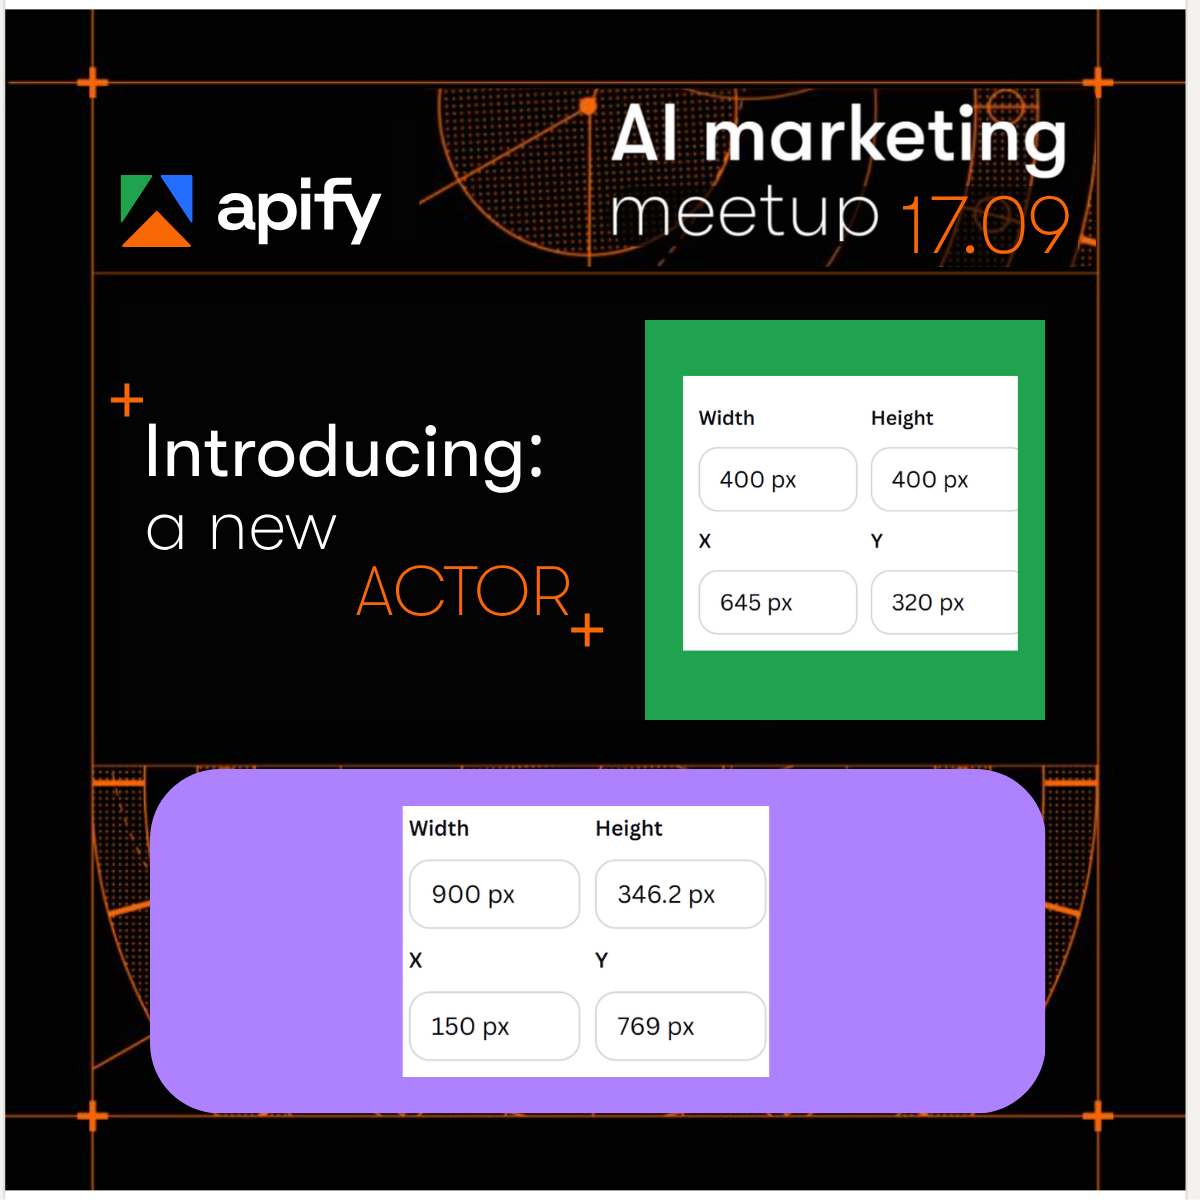
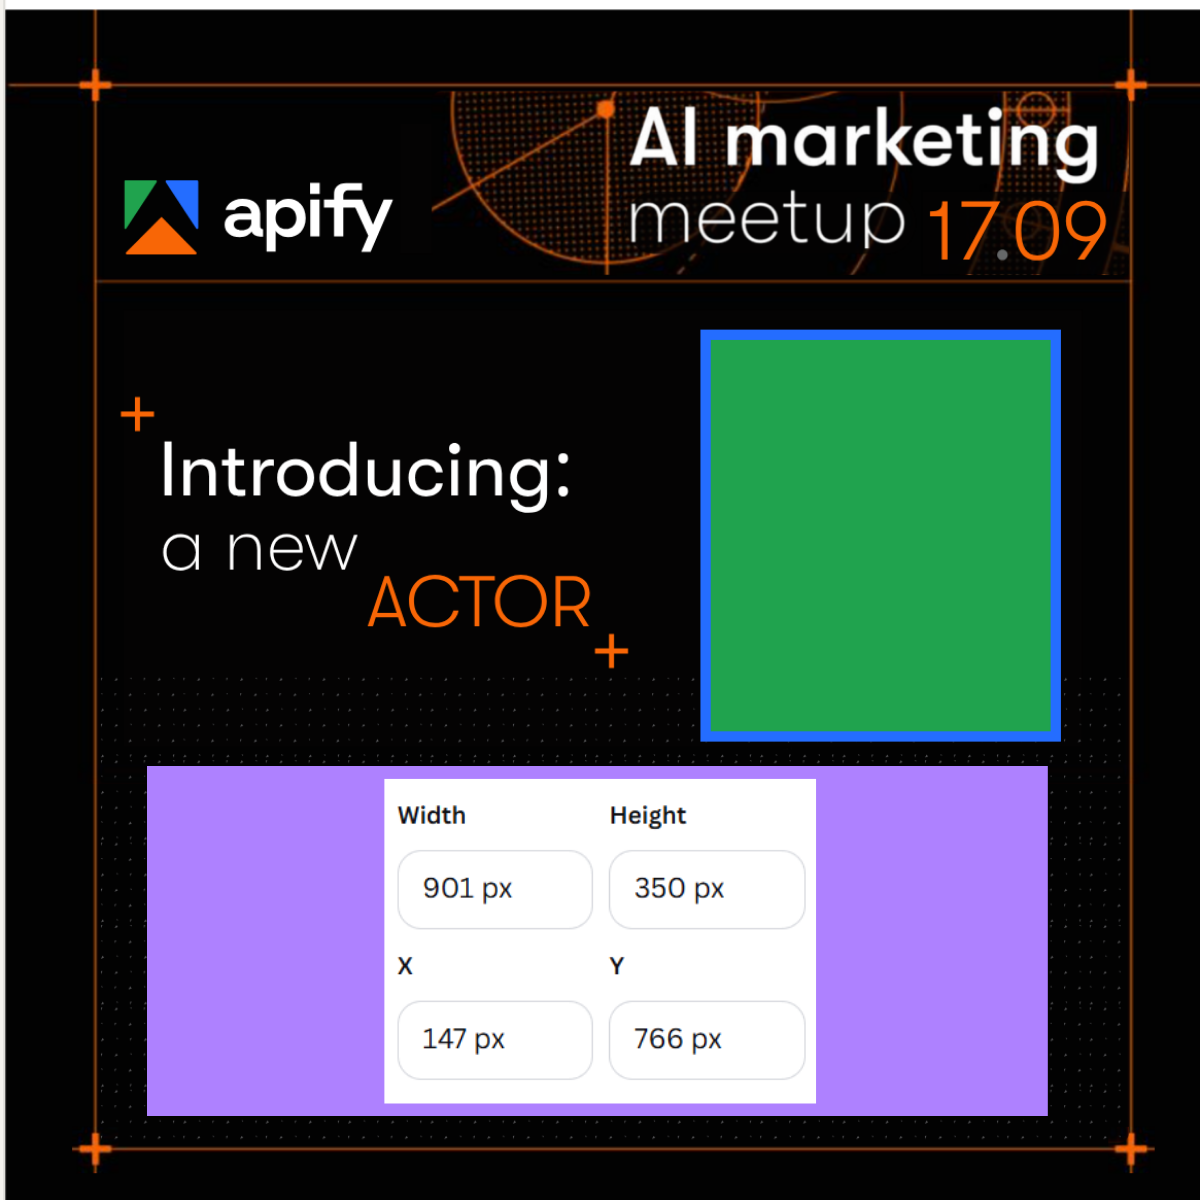
Preflight for the new canon template; hover ring on the card's outside
- Hover fix: the permanent :hover ring was painted around the inner body,
  overpainting the #1d1d1d shell; it now sits box-shadow outside the card
  like the live site, so the edge reads ring/shell/body (verified by pixel)
- New #020202 plate behind the card covers the whole purple block - its
  square corners no longer peek past the card's rounded corners
- Canon template: stale speaker readout panel removed (values predated the
  operator's rescale; green area is flat again, mask-only geometry);
  purple panel verified exact (901x350@147,766, ratio passes at 1.7px)
- Skill learns the blue-bordered speaker block: photo fills the green area
  only, a panel on a ringed block states the border-inclusive footprint
- All 400x400 image guidance updated to the template's photo-area size
  (339x391 currently); placement records refreshed; budgets PNG re-rendered

Claude-Session: https://claude.ai/code/session_01MRv3MoDQ3dsJRT2KJLrnef

Changed region(s): [[0.0, 0.0, 1.0, 1.0]]

diff --git a/internal/render/shell.html b/internal/render/shell.html
@@ -66,14 +66,14 @@ body{ width:{{PAGE_W}}px; height:{{PAGE_H}}px; overflow:hidden;
   font-family:Inter,sans-serif;
   text-decoration:none;
   font-size:18px; line-height:28px;   /* -> 47.667px header row, see top note */
+  /* hover state rendered permanently on (operator direction): the live
+     card's :hover ring — box-shadow 0 0 0 2px #2a2a2a OUTSIDE the card,
+     so the edge reads ring / #1d1d1d shell / body, like a hovered card. */
+  box-shadow:0 0 0 2px var(--border);
 }
 .ActorCard *{ box-sizing:border-box; }
 .ActorCard-body{
   padding:16px; border-radius:6px; background-color:var(--bg); flex-grow:1;
-  /* hover state rendered permanently on (operator direction): the live
-     card's :hover ring — box-shadow 0 0 0 2px #2a2a2a around the body,
-     which reads as the lightened top/side border in the screenshot. */
-  box-shadow:0 0 0 2px var(--border);
 }
 .ActorCard-header{ display:flex; align-items:center; gap:12px; }
 .ActorCard-iconWrap{ position:relative; display:inline-block; flex-shrink:0; }
@@ -136,6 +136,12 @@ body{ width:{{PAGE_W}}px; height:{{PAGE_H}}px; overflow:hidden;
 <img id="base" src="{{BASE_IMAGE_URI}}" alt="">
 <img id="speaker" src="{{SPEAKER_IMAGE_URI}}" alt="">
 
+<!-- plate under the card: covers the whole purple block (its square
+     corners would otherwise peek past the card's rounded corners) -->
+<div id="cardplate" style="position:absolute;
+     left:calc({{CARD_X}}px - 1px); top:calc({{CARD_Y}}px - 1px);
+     width:calc({{CARD_W}}px + 2px); height:calc({{CARD_H}}px + 2px);
+     background:#020202"></div>
 <div id="cardmount">
 <a class="ActorCard">
   <div class="ActorCard-body">

diff --git a/docs/text-budgets.html b/docs/text-budgets.html
@@ -30,7 +30,7 @@
 <body>
 
 <h1>Speaker card — text budgets</h1>
-<p class="sub">Measured on the rendered card at its 400 px CSS render width (not the 400×400 speaker image) · companion to “Actor card field mapping”</p>
+<p class="sub">Measured on the rendered card at its 400 px CSS render width · companion to “Actor card field mapping”</p>
 
 <table>
   <caption>Text budgets — measured on the rendered card at 400&nbsp;px width, minus an 8% safety buffer</caption>

diff --git a/intake-template (completed example).md b/intake-template (completed example).md
@@ -47,16 +47,16 @@ duration_minutes:   "10"            # number only — the card renders 10 (mins)
 # Values below are from the last run, not a specification.
 
 # actor card block — purple placeholder
-card_x:             150
-card_y:             769
-card_w:             900
-card_h:             346.2
+card_x:             147
+card_y:             766
+card_w:             901
+card_h:             350
 
-# speaker photo block — green placeholder
-speaker_x:          650
-speaker_y:          318
-speaker_w:          400
-speaker_h:          400
+# speaker photo block — green placeholder (photo area inside the blue ring)
+speaker_x:          711
+speaker_y:          340
+speaker_w:          339
+speaker_h:          391
 
 # --- 7. render options -------------------------------------------------------
 # output is optional. Default: processed/<this-file's-name>.png
@@ -141,8 +141,7 @@ Talk length in minutes — the number only, no unit; the card renders it as
 The short blurb under the speaker's name on the card. The number in the
 fence label is the enforced character budget: the measured two-line capacity
 of the **actor card's description text slot** with the card at its native
-CSS render width (`card_width: 400`) minus an 8% buffer — nothing to do with
-the 400×400 speaker image; the matching number is coincidence. Exceeding the
+CSS render width (`card_width: 400`) minus an 8% buffer. Exceeding the
 budget rejects the form; the card is never silently truncated.
 
 ```presentation-description-82-char-max
@@ -153,8 +152,8 @@ How we cut lead research from six hours a week to twenty minutes.
 
 That's everything to type. Two things remain to **drop into this folder as
 files** (see the folder's README): the company logo (`company-logo.png`) and
-the speaker photo (`speaker.png`) — each either exactly 400×400, or any size
-with a visible mark drawn at the intended centre of the shot. Everything
+the speaker photo (`speaker.png`) — any size with a visible mark drawn at
+the intended centre of the shot (or exactly the template's photo-area size). Everything
 below this line is for the agents.
 
 ---
@@ -282,6 +281,12 @@ template missing either one is rejected before any rendering starts.
 |---|---|---|---|
 | **actor card** | purple `#AE81FF` | measured per run | the rendered card |
 | **speaker photo** | green `#20A34E` | measured per run | `speaker_image` |
+
+The speaker block wears a **10px Apify-blue border** (≈ rgb(36,109,255)),
+drawn in the template and **inclusive in the block's stated dimensions**:
+a printed panel on a bordered block gives the border-inclusive footprint,
+and the photo fills only the green area inside the ring. The ring stays
+visible around the finished portrait; nothing about it is an input.
 
 ### The template image is canon
 
@@ -469,9 +474,9 @@ The first fenced block after the frontmatter whose info string starts with
 
 - Inter 12px / 400 / `#a3a3a3`, clamped to `desc_lines` (2 lines).
 - **Budget: 82 characters** — the card's description text slot measured
-  with the card at its native CSS render width (`card_width: 400` — not the
-  400×400 speaker image): two-line capacity ~90 chars across mixed
-  real-text samples, worst sample 87, minus an 8% buffer. The budget is parsed from the fence label itself,
+  with the card at its native CSS render width (`card_width: 400`):
+  two-line capacity ~90 chars across mixed real-text samples, worst
+  sample 87, minus an 8% buffer. The budget is parsed from the fence label itself,
   so retuning it for a different card width means renaming the fence.
 - Newlines inside the fence are collapsed to spaces; leading/trailing
   whitespace is trimmed. Write one plain paragraph — no markdown.
@@ -516,10 +521,12 @@ The portrait image filling the green block. Resolved against `assets_root`.
 
 - Drawn at `speaker_w × speaker_h`, `object-fit: cover` — centre-cropped, never
   squashed.
-- Supply at **720 × 960 or larger** (2× the block) so it stays crisp; the block
-  is 3:4, so anything near that ratio crops cleanly.
-- Unlike the two card images this one has no border and no radius applied. If
-  you want rounded corners on it, say so — it is not in the card's CSS.
+- Supply at roughly **2× the photo area or larger** (≥ 680×780 for the
+  current template) so it stays crisp; the area is close to 7:8 portrait,
+  so anything near that ratio crops cleanly.
+- The 10px Apify-blue border around the finished portrait comes from the
+  template (§1b) — the render itself adds no border and no radius; the
+  photo simply fills the green area inside the ring.
 
 **States:** valid path → drawn · empty or omitted → **rejected**; both blocks
 must be filled · missing file → hard fail · wrong aspect → centre-cropped, which
@@ -594,8 +601,10 @@ processed/<speaker-folder>/      the whole folder lands here on success,
 
 For `speaker.png` (and `company-logo.png` alike, PNG or JPG/JPEG):
 
-- **Exactly 400×400** → used as-is; a correctly sized image also fully covers
-  a placeholder outline, which sits inside those bounds; or
+- **Exactly the template's photo-area size** (the green area inside the
+  blue ring — 339×391 on the current template) → used as-is; a correctly
+  sized image also fully covers a placeholder outline, which sits inside
+  those bounds; or
 - **any size, with a visible mark at the intended centre** — an "x", a
   scribble, any clear annotation drawn on the image. The skill reads the
   mark's position, records it as `speaker_focus: [x, y]`, and the generator

diff --git a/intake-template.md b/intake-template.md
@@ -47,16 +47,16 @@ duration_minutes:   ""              # number only — the card renders 10 (mins)
 # Values below are from the last run, not a specification.
 
 # actor card block — purple placeholder
-card_x:             150
-card_y:             769
-card_w:             900
-card_h:             346.2
+card_x:             147
+card_y:             766
+card_w:             901
+card_h:             350
 
-# speaker photo block — green placeholder
-speaker_x:          650
-speaker_y:          318
-speaker_w:          400
-speaker_h:          400
+# speaker photo block — green placeholder (photo area inside the blue ring)
+speaker_x:          711
+speaker_y:          340
+speaker_w:          339
+speaker_h:          391
 
 # --- 7. render options -------------------------------------------------------
 # output is optional. Default: processed/<this-file's-name>.png
@@ -147,8 +147,7 @@ Talk length in minutes — the number only, no unit; the card renders it as
 The short blurb under the speaker's name on the card. The number in the
 fence label is the enforced character budget: the measured two-line capacity
 of the **actor card's description text slot** with the card at its native
-CSS render width (`card_width: 400`) minus an 8% buffer — nothing to do with
-the 400×400 speaker image; the matching number is coincidence. Exceeding the
+CSS render width (`card_width: 400`) minus an 8% buffer. Exceeding the
 budget rejects the form; the card is never silently truncated.
 
 ```presentation-description-82-char-max
@@ -175,8 +174,8 @@ budget rejects the form; the card is never silently truncated.
 
 That's everything to type. Two things remain to **drop into this folder as
 files** (see the folder's README): the company logo (`company-logo.png`) and
-the speaker photo (`speaker.png`) — each either exactly 400×400, or any size
-with a visible mark drawn at the intended centre of the shot. Everything
+the speaker photo (`speaker.png`) — any size with a visible mark drawn at
+the intended centre of the shot (or exactly the template's photo-area size). Everything
 below this line is for the agents.
 
 ---
@@ -304,6 +303,12 @@ template missing either one is rejected before any rendering starts.
 |---|---|---|---|
 | **actor card** | purple `#AE81FF` | measured per run | the rendered card |
 | **speaker photo** | green `#20A34E` | measured per run | `speaker_image` |
+
+The speaker block wears a **10px Apify-blue border** (≈ rgb(36,109,255)),
+drawn in the template and **inclusive in the block's stated dimensions**:
+a printed panel on a bordered block gives the border-inclusive footprint,
+and the photo fills only the green area inside the ring. The ring stays
+visible around the finished portrait; nothing about it is an input.
 
 ### The template image is canon
 
@@ -491,9 +496,9 @@ The first fenced block after the frontmatter whose info string starts with
 
 - Inter 12px / 400 / `#a3a3a3`, clamped to `desc_lines` (2 lines).
 - **Budget: 82 characters** — the card's description text slot measured
-  with the card at its native CSS render width (`card_width: 400` — not the
-  400×400 speaker image): two-line capacity ~90 chars across mixed
-  real-text samples, worst sample 87, minus an 8% buffer. The budget is parsed from the fence label itself,
+  with the card at its native CSS render width (`card_width: 400`):
+  two-line capacity ~90 chars across mixed real-text samples, worst
+  sample 87, minus an 8% buffer. The budget is parsed from the fence label itself,
   so retuning it for a different card width means renaming the fence.
 - Newlines inside the fence are collapsed to spaces; leading/trailing
   whitespace is trimmed. Write one plain paragraph — no markdown.
@@ -538,10 +543,12 @@ The portrait image filling the green block. Resolved against `assets_root`.
 
 - Drawn at `speaker_w × speaker_h`, `object-fit: cover` — centre-cropped, never
   squashed.
-- Supply at **720 × 960 or larger** (2× the block) so it stays crisp; the block
-  is 3:4, so anything near that ratio crops cleanly.
-- Unlike the two card images this one has no border and no radius applied. If
-  you want rounded corners on it, say so — it is not in the card's CSS.
+- Supply at roughly **2× the photo area or larger** (≥ 680×780 for the
+  current template) so it stays crisp; the area is close to 7:8 portrait,
+  so anything near that ratio crops cleanly.
+- The 10px Apify-blue border around the finished portrait comes from the
+  template (§1b) — the render itself adds no border and no radius; the
+  photo simply fills the green area inside the ring.
 
 **States:** valid path → drawn · empty or omitted → **rejected**; both blocks
 must be filled · missing file → hard fail · wrong aspect → centre-cropped, which
@@ -616,8 +623,10 @@ processed/<speaker-folder>/      the whole folder lands here on success,
 
 For `speaker.png` (and `company-logo.png` alike, PNG or JPG/JPEG):
 
-- **Exactly 400×400** → used as-is; a correctly sized image also fully covers
-  a placeholder outline, which sits inside those bounds; or
+- **Exactly the template's photo-area size** (the green area inside the
+  blue ring — 339×391 on the current template) → used as-is; a correctly
+  sized image also fully covers a placeholder outline, which sits inside
+  those bounds; or
 - **any size, with a visible mark at the intended centre** — an "x", a
   scribble, any clear annotation drawn on the image. The skill reads the
   mark's position, records it as `speaker_focus: [x, y]`, and the generator

diff --git a/skills/apify-speaker-card.md b/skills/apify-speaker-card.md
@@ -84,6 +84,15 @@ with a zoomed read; note the readouts sit *inside* the blocks and the blocks
 may have rounded corners and can contain the white panel overlay — the block
 is the full coloured extent, not the first coloured run.
 
+**The blue-bordered speaker block:** the current design draws a solid
+Apify-blue ring (≈ rgb(36,109,255), ~10px at template scale) around the
+green area. The ring is part of the template and stays visible in the
+output; **the photo fills the green area only** — `speaker_*` values are the
+green mask bounds, never the ring's. If a printed panel accompanies a
+ringed block, it states the border-INCLUSIVE footprint: cross-check it
+against the ring's outer bounds (±6px), and expect the green area inset by
+the ring thickness on all sides. No ring → the plain rules above.
+
 Write the eight values back into the frontmatter (`card_x/y/w/h`,
 `speaker_x/y/w/h`) — they are outputs, never inputs.
 
@@ -174,6 +183,8 @@ totals. One bad folder never stops the rest.
   the card collapses to 137.667.
 - The footer circle icon is static on every card; never an input.
 - Text budgets (measured on the card's own text slots at the card's CSS
-  render width 400 — not the 400×400 speaker image — then −8%): name 30 ·
-  position/company 39 · description 82 (from the fence label) · topic 33.
+  render width 400, then −8%): name 30 · position/company 39 ·
+  description 82 (from the fence label) · topic 33.
+- The speaker photo's blue border comes from the template, not the render;
+  the photo covers only the green area inside it.
 - GT Walsheim is not part of the render and must never be added to this repo.

diff --git a/README.md b/README.md
@@ -37,8 +37,8 @@ You only need two things that are almost certainly already on your machine:
 3. **Fill in the form's boxes** — name, role, company, talk blurb, topic,
    level, minutes; each box says what it wants and how long it can be —
    and **drop in two images**: the company logo and the speaker photo.
-   Either exactly 400×400, or any size with a visible "x" drawn where you
-   want the crop centred.
+   Any size works — just draw a visible "x" where you want the crop
+   centred (or supply the exact size named in the folder's README).
 4. Say **"process the queue"**. The finished 1200×1200 PNG lands in
    `processed/jana-novakova/`, ready to post.
 
@@ -102,8 +102,9 @@ A folder lives in exactly one queue. Successes move whole; failures stay put
 with a printed reason and never write partial output. Nothing is ever
 overwritten.
 
-**Images** can be exactly **400×400** (PNG/JPG), or **any size with a visible
-mark** — an "x" or scribble at the intended centre — which the skill reads and
+**Images** can be exactly the template's photo-area size (PNG/JPG), or **any
+size with a visible mark** — an "x" or scribble at the intended centre —
+which the skill reads and
 turns into a proportion-correct crop, leaving your original file untouched.
 **Missing images** stop that folder with a choice: resubmit, or render with a
 dashed in-block placeholder outline that a correctly sized image covers

diff --git a/internal/speaker-folder-README.md b/internal/speaker-folder-README.md
@@ -10,9 +10,10 @@ Three things. The skill refuses (or asks about placeholders) until it has them.
 
 ## Image sizing — two accepted forms
 
-**Either** supply the image at **exactly 400×400** (PNG or JPG/JPEG) — it is
-used as-is and, dropped over a placeholder later, fully covers the
-placeholder's outline, which sits inside those bounds.
+**Either** supply the image at **exactly the template's photo-area size**
+(PNG or JPG/JPEG; 339×391 on the current template — the green area inside
+the blue ring) — it is used as-is and, dropped over a placeholder later,
+fully covers the placeholder's outline, which sits inside those bounds.
 
 **Or** supply any size of those file types **with a visible mark at the
 intended centre** — an "x", a scribble, any obvious annotation on top of the

diff --git a/skills/new-speaker.md b/skills/new-speaker.md
@@ -45,9 +45,9 @@ the intake form and (added by the operator) the two images.
    fenced inputs in `intake.md` (everything to type lives in the "Input
    presentation details here" section; the description fence label is its
    character budget), and drop in the two images —
-   `company-logo.(png/jpg)` and `speaker.(png/jpg)`, each either exactly
-   400×400 or any size with a visible mark at the intended centre. Then
-   "process the queue" generates the card.
+   `company-logo.(png/jpg)` and `speaker.(png/jpg)` — any size with a
+   visible mark at the intended centre, or exactly the template's photo-area
+   size. Then "process the queue" generates the card.
 
 ## Notes
 
